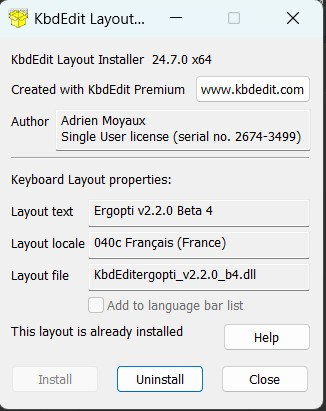
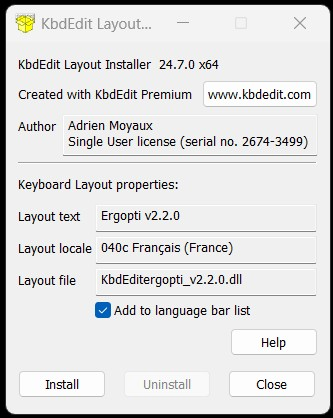
Update installation instructions

diff --git a/src/routes/ergopti-plus/introduction_ergopti_plus.svelte b/src/routes/ergopti-plus/introduction_ergopti_plus.svelte
@@ -25,27 +25,26 @@
 	<p class="main text-center">
 		<ErgoptiPlus /> est une variante améliorée de la disposition <Ergopti /> qui tire parti des meilleures
 		fonctionnalités des claviers programmables et outils d’automatisation. Elle se rapproche de très
-		près de la
-		<strong>disposition clavier idéale</strong>. En effet, elle :
+		près <span class="nowrap">de la <strong>disposition clavier idéale</strong> :</span>
 	</p>
 	<div class="cards">
 		<div class="card">
 			<i class="icon-circle-1"><span class="path1"></span><span class="path2"></span></i>
-			Ajoute de
+			Ajout de
 			<span class="text-bold">nouveaux roulements</span> extrêmement confortables.
 		</div>
 		<div class="card">
 			<i class="icon-circle-2"><span class="path1"></span><span class="path2"></span></i>
-			<strong>Éradique la quasi-totalité des <span class="nowrap"><SFB />s</span></strong> pour une frappe
-			ultra-fluide et sans inconfort.
+			<strong>Éradication de la quasi-totalité des <span class="nowrap"><SFB />s</span></strong> pour
+			une frappe ultra-fluide et sans inconfort.
 		</div>
 		<div class="card">
 			<i class="icon-circle-3"><span class="path1"></span><span class="path2"></span></i>
-			<span class="text-bold">Réduit les distances parcourues par les doigts</span>, en particulier
-			l’auriculaire droit.
+			<span class="text-bold">Réduction des distances parcourues par les doigts</span>, en
+			particulier l’auriculaire droit.
 		</div>
 		<div class="card">
-			<i class="icon-circle-4"><span class="path1"></span><span class="path2"></span></i> Ajoute de
+			<i class="icon-circle-4"><span class="path1"></span><span class="path2"></span></i> Ajout de
 			<strong>nombreux raccourcis</strong>
 			tels qu’un layer de navigation, des tap-holds et des touches
 			<kbd-output>Alt + Tab</kbd-output>,
@@ -53,15 +52,15 @@
 		</div>
 		<div class="card">
 			<i class="icon-circle-5"><span class="path1"></span><span class="path2"></span></i>
-			Fonctionnalités d’<span class="text-bold">autocorrection et de snippets</span>. Permet
+			Fonctionnalités d’<span class="text-bold">autocorrection et de snippets</span>. Cela permet
 			également d’écrire des
 			<span class="text-bold">symboles complexes et des emojis</span>.
 		</div>
 		<div class="card">
 			<i class="icon-circle-6"><span class="path1"></span><span class="path2"></span></i> Chaque
 			fonctionnalité est optionnelle, désactivable et
-			<strong>peut être intégrée au fil du temps</strong>. Nul besoin de chercher à tout utiliser
-			dès le départ.
+			<strong>peut être intégrée au fil du temps</strong>. Nul besoin de chercher à tout apprendre
+			ou utiliser dès le départ.
 		</div>
 	</div>
 	<tiny-space></tiny-space>

diff --git a/src/routes/utilisation/installation_windows.svelte b/src/routes/utilisation/installation_windows.svelte
@@ -28,7 +28,7 @@
 	Il est en mesure de créer des pilotes pour Windows, et depuis peu pour Mac. Seul Linux n’est pas
 	supporté.
 </p>
-<tiny-space></tiny-space>
+
 {#if version_mineure_kbdedit_exe !== undefined}
 	<div class="download-buttons">
 		<a href="/drivers/windows/Ergopti_v{version_mineure_kbdedit_exe}.exe" download>
@@ -58,23 +58,44 @@
 	class="no-upscale"
 	style="width: min(400px, 100%)!important;"
 	src="$lib/images/windows_installation_1.jpg"
-	alt="Screenshot d’installation du pilote KbdEdit."
+	alt="Screenshot d’installation du pilote KbdEdit"
 />
 
-<small-space></small-space>
+<div style="margin-top:15px"></div>
 
 <p>
 	Après l’installation, se rendre dans <code>Paramètres</code> >
-	<code>Heure et langue</code> > <code>Langue et région</code>.
+	<code>Heure et langue</code> > <code>Langue et région</code> et cliquer sur le <code>…</code> de
+	la langue installée (ici <code>Français (France)</code>) :
 </p>
 <enhanced:img
 	src="$lib/images/windows_installation_2.jpg"
-	alt="Screenshot 1/2 des paramètres Windows 11 pour changer sa disposition de clavier."
+	alt="Screenshot 1/2 des paramètres Windows 11 pour changer sa disposition de clavier"
 />
-<tiny-space></tiny-space>
+
+<div style="margin-top:15px"></div>
+<p>
+	Cliquer ensuite sur <code>Ajouter un clavier</code> et sélectionner la version qui vient d’être ajoutée
+	par l’installateur de KbdEdit :
+</p>
 <enhanced:img
 	src="$lib/images/windows_installation_3.jpg"
-	alt="Screenshot 2/2 des paramètres Windows 11 pour changer sa disposition de clavier."
+	alt="Screenshot 2/2 des paramètres Windows 11 pour changer sa disposition de clavier"
+/>
+<p>
+	Il est conseillé de supprimer tous les claviers de cette liste avant d’ajouter celui d’<Ergopti
+	></Ergopti> et ensuite éventuellement rajouter vos autres claviers comme AZERTY. Cela permettra de
+	l’avoir comme clavier par défaut, étant en première position de la liste.
+</p>
+
+<div style="margin-top:15px"></div>
+
+<p>La disposition sera ensuite disponible dans le menu linguistique de la barre des tâches :</p>
+<enhanced:img
+	class="no-upscale"
+	style="width: min(400px, 100%)!important;"
+	src="$lib/images/windows_installation_4.jpg"
+	alt="Screenshot du menu menu linguistique de la barre des tâches"
 />
 
 <h3 id="ahk">Pilote AutoHotkey (sans droits d’administrateur)</h3>

diff --git a/src/routes/informations/autocritiques.svelte b/src/routes/informations/autocritiques.svelte
@@ -20,7 +20,8 @@
 		étrange, tant son apparition est incontournable dans les textes (sauf dans le livre
 		<em>La Disparition</em> qui arrive l’exploit de ne jamais l’utiliser). Le <kbd>E</kbd> est la
 		lettre la plus fréquente, et de loin. Elle est si fréquente que sur le
-		<a href="/#keyboard_frequences">clavier affichant les touches les plus utilisées</a>
+		<a class="link" href="/#keyboard_frequences">clavier affichant les touches les plus utilisées</a
+		>
 		de la page d’accueil, une transformation mathématique a été nécessaire pour que les fréquences relatives
 		aux autres touches soient visibles et comparables (passage au logarithme). En effet, si l’on affichait
 		les fréquences relatives telles quelles, le <kbd>E</kbd> serait tellement plus fréquent qu’il écraserait
@@ -104,12 +105,13 @@
 	</p>
 	<p class="encadre">
 		<b>Note :</b> Une version 1DFH d’<Ergopti></Ergopti> a été développée. Elle est disponible sur la
-		<a href="/benchmarks">page de benchmarks</a>
-		ainsi que sur la <a href="/utilisation">page de téléchargements</a>, par installation via
-		Kalamine. Elle utilise le fait qu’<Ergopti></Ergopti> ait été conçue de base pour utiliser de nouvelles
-		fonctionnalités grâce à l’emplacement réservé à la touche magique <kbd>★</kbd>. Cependant, les
-		gains apportés par cette version 1DFH sont faibles et il est donc recommandé de ne pas
-		l’utiliser, sauf si vous avez un clavier compact et n’avez pas d’autre choix.
+		<a class="link" href="/benchmarks">page de benchmarks</a>
+		ainsi que sur la <a class="link" href="/utilisation">page de téléchargements</a>, par
+		installation via Kalamine. Elle utilise le fait qu’<Ergopti></Ergopti> ait été conçue de base pour
+		utiliser de nouvelles fonctionnalités grâce à l’emplacement réservé à la touche magique
+		<kbd>★</kbd>. Cependant, les gains apportés par cette version 1DFH sont faibles et il est donc
+		recommandé de ne pas l’utiliser, sauf si vous avez un clavier compact et n’avez pas d’autre
+		choix.
 	</p>
 
 	<h3>Quelques <SFB />s restants</h3>
